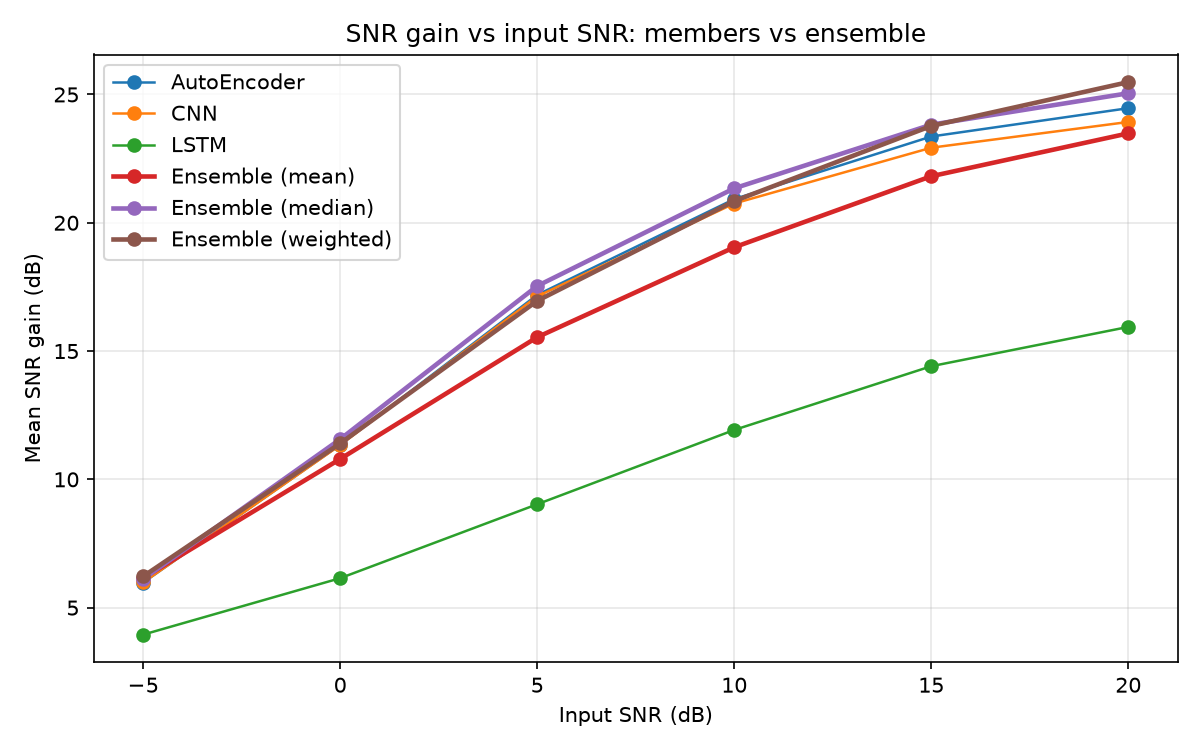
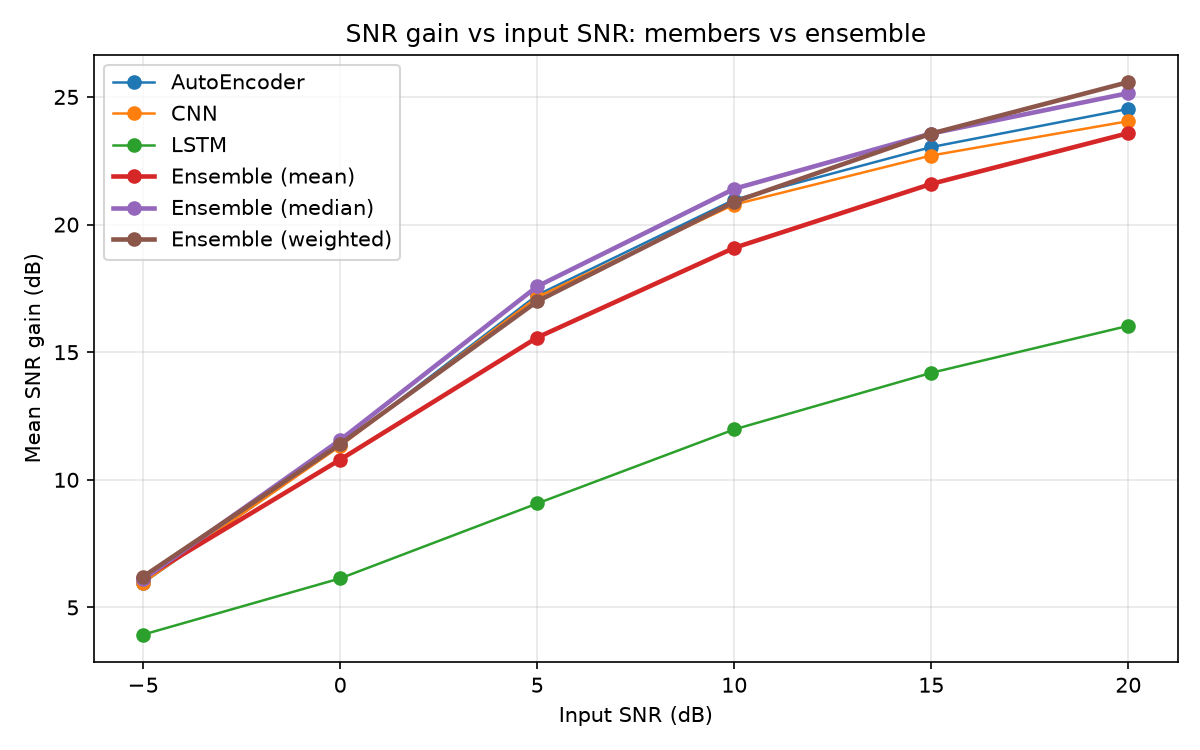
fix: ensemble

diff --git a/models/ensemble/eval.py b/models/ensemble/eval.py
@@ -1,5 +1,6 @@
 """
-General evaluation of the ensemble vs. its individual members and the raw noisy input.
+Full evaluation of the AutoEncoder + CNN + LSTM ensemble vs. its individual
+members and the raw noisy input.
 
 Run from anywhere:
     python models/ensemble/eval.py
@@ -7,11 +8,12 @@ Run from anywhere:
     python models/ensemble/eval.py --data-root path/to/data --split test
 
 What you get:
-  1. Overall table: MSE, output SNR and SNR gain for Raw / AutoEncoder / CNN / LSTM / each ensemble mode
-  2. Table of mean SNR gain per input-SNR level
-  3. The standard evaluate_denoiser() report + boxplot PNG for the primary ensemble mode
+  1. Learned ensemble weights (if "weighted" is among --modes), fit on validation
+  2. Overall table: MSE, output SNR and SNR gain for Raw / AutoEncoder / CNN / LSTM / each ensemble mode
+  3. Table of mean SNR gain per input-SNR level
+  4. The standard evaluate_denoiser() report + boxplot PNG for the primary ensemble mode
      (saved as models/evaluation_plots/ensemble_<mode>_snr_stratified.png)
-  4. models/evaluation_plots/ensemble_comparison.png and ensemble_summary.csv
+  5. models/evaluation_plots/ensemble_comparison.png and ensemble_summary.csv
 
 Individual members are NOT passed to evaluate_denoiser here, so your existing
 autoencoder / cnn / lstm plots in evaluation_plots/ are left untouched.
@@ -53,8 +55,12 @@ def evaluate_ensemble(ens, split="test", data_root=DEFAULT_DATA_ROOT,
     if "weighted" in modes:
         Xv, yv, _, _ = load_split("validation", data_root=str(data_root))
         weights, val_mse = ens.fit_weights(Xv, yv, batch_size)
-        print("Validation MSE per member :", {k: round(v, 5) for k, v in val_mse.items()})
-        print("Ensemble weights (1/MSE)  :", {k: round(v, 3) for k, v in weights.items()})
+        print("\n" + "=" * 72)
+        print("LEARNED ENSEMBLE WEIGHTS (fit on validation split)")
+        print("=" * 72)
+        print(f"{'Model':<15}{'Weight':>10}{'Val MSE':>14}")
+        for name in ens.names:
+            print(f"{name:<15}{weights[name]:>10.4f}{val_mse[name]:>14.6f}")
 
     member_preds = ens.predict_members(X, batch_size)
 
